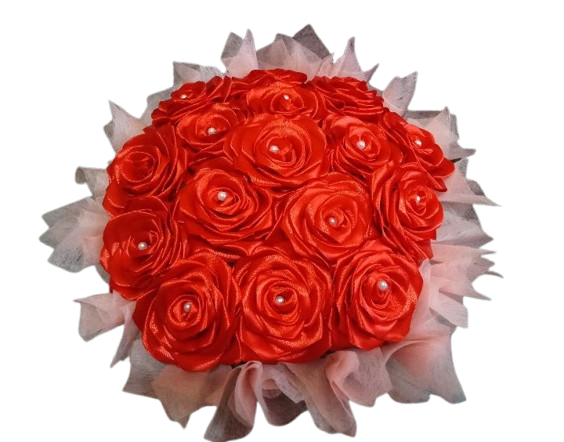
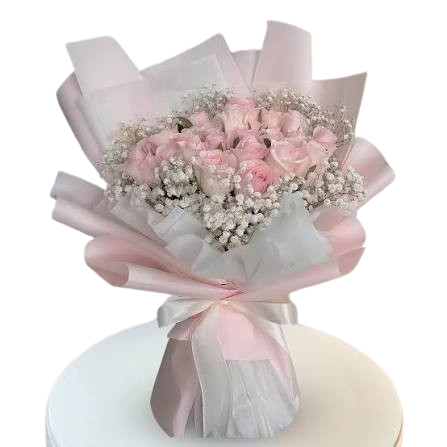
asd

diff --git a/script.js b/script.js
@@ -1,5 +1,6 @@
-const message = `Hi love, whahaha i think ang oa ko neto pero bahala na. First and Foremost, HAPPY 3RD MONTHSARRY. set up lang yung flower if malaman mo talaga na sa'yo, s'yempre papayag ba ako walang plan B inadvance ko na whahahaha i just wanna thankyou for everything love kase super blessed ko simula nung nakilala kita, hindi ko man nagagawa maging sweet pero i'll always trying my best thru Video Call or Call, mahal na mahal kita love. At sure din naman akong gano'n ka rin ramdam ko rin naman. Thankyou sa pag treat sa'kin ng tama, alam kung marami pa tayong pag dadaanan na mga bagay-bagay pero 'wag nating maging option ang pag hihiwalay o pag hahanap nang atensyon sa iba. Palagi lang nating pag-usapan mga problem nating kakaharapin mas mag tatagal tayo if pag uusapan natin lahat ng bagay-bagay, Ang mabibigay ko lang na assurance sa'yo ay yung hindi ako mambabae,mamahalin ka hanggang sa huling hininga ko, ibibigay lahat ng luho mo(dahil alam kung maluho ka), at bubusogin 'yang tummy mo para happy tummy, happy wifey. Love Mahal na Mahal kita, whatever happens i'll still by your side (TAMA BA 'YAN) whahahhahaha Hindi ako mag sasawa na mahalin ka sa araw-araw gwen. Ikaw ang regalo na ayokong mawala, sana gano'n ka rin, Kase pansin ko naiinis kana sa'kin whahhaha like parang Stress na Stress kana as in. Huwag naman, habaan mo pasens'ya mo whahahha + sa nangyari 06|08|26 sorry talaga love pangako hindi na mauulit 'yun. sana 'wag mo'ko iwan sorry if napa ranas ko yung nangyari sa past mo it wouldn't happen again. mahal kita always sana masaya ka sa plan b na 'to hehehe ginamit ko nalang pag ka IT ko sayang kung hindi ko gagamitin para makapag pasikat sa'yo blee. ILOVEYOUUUUUU!`;
-
+const message = 'Happy 20th Birthday Love, Sorry dahil wala ako dyan promise pag graduate natin lagi na tayo mag kasama kada birthday mo. Thankyou love kase lagi mo akong iniintindi at ganon din naman ako sayo. wala na akong h-hilingan pa sa rs natin mag paka buti kalang sa akin sapat na whahahha kems. Enjoy your day Bebi, Padaba taka (HOPE TAMA IYAN whahhahha)';
+// Repeat only for the image-text effect so the portrait is filled before it fades.
+const portraitMessage = (message + ' ').repeat(20);
 const giftContainer = document.getElementById("giftContainer");
 const giftBtn = document.getElementById("giftBtn");
 const bouquet = document.getElementById("bouquet");
@@ -17,89 +18,89 @@ let portraitIndex = 0;
 let letterIndex = 0;
 
 startBtn.onclick = () => {
-  intro.classList.add("hide");
+    intro.classList.add("hide");
 
-  setTimeout(() => {
-    intro.style.display = "none";
+    setTimeout(() => {
+        intro.style.display = "none";
 
-    portraitContainer.style.display = "flex";
+        portraitContainer.style.display = "flex";
 
-    typePortrait();
-  }, 1000);
+        typePortrait();
+    }, 1000);
 };
 
 function typePortrait() {
-  if (portrait.scrollHeight > portrait.clientHeight) {
-    portrait.classList.add("glow");
+    if (portrait.scrollHeight > portrait.clientHeight) {
+        portrait.classList.add("glow");
 
-    setTimeout(() => {
-      portrait.classList.add("zoom");
-    }, 2000);
+        setTimeout(() => {
+            portrait.classList.add("zoom");
+        }, 2000);
 
-    setTimeout(showLetter, 6000);
+        setTimeout(showLetter, 6000);
 
-    return;
-  }
+        return;
+    }
 
-  portrait.textContent += message[portraitIndex];
+    portrait.textContent += portraitMessage[portraitIndex];
 
-  portraitIndex++;
+    portraitIndex++;
 
-  if (portraitIndex >= message.length) {
-    portraitIndex = 0;
-  }
+    if (portraitIndex >= portraitMessage.length) {
+        portraitIndex = 0;
+    }
 
-  setTimeout(typePortrait, 1);
+    setTimeout(typePortrait, 1);
 }
 
 function showLetter() {
-  portraitContainer.style.display = "none";
+    portraitContainer.style.display = "none";
 
-  letterContainer.style.display = "block";
+    letterContainer.style.display = "block";
 
-  typeLetter();
+    typeLetter();
 }
 
 function typeLetter() {
-  if (letterIndex >= message.length) {
-    giftContainer.style.display = "block";
+    if (letterIndex >= message.length) {
+        giftContainer.style.display = "block";
 
-    return;
-  }
+        return;
+    }
 
-  letter.textContent += message[letterIndex];
+    letter.textContent += message[letterIndex];
 
-  letterIndex++;
+    letterIndex++;
 
-  setTimeout(typeLetter, 25);
+    setTimeout(typeLetter, 25);
 }
 
 giftBtn.onclick = () => {
-  giftBtn.style.display = "none";
+    giftBtn.style.display = "none";
 
-  bouquet.style.display = "block";
+    bouquet.style.display = "block";
 
-  setTimeout(() => {
-    bouquet.classList.add("show");
-  }, 10);
+    setTimeout(() => {
+        bouquet.classList.add("show");
+    }, 10);
 };
 
 const petals = document.getElementById("petals");
 
 for (let i = 0; i < 25; i++) {
-  const petal = document.createElement("div");
+    const petal = document.createElement("div");
 
-  petal.className = "petal";
+    petal.className = "petal";
 
-  petal.innerHTML = "🌸";
+    petal.innerHTML = "🌸";
 
-  petal.style.left = Math.random() * 100 + "vw";
+    petal.style.left = Math.random() * 100 + "vw";
 
-  petal.style.animationDuration = 6 + Math.random() * 6 + "s";
+    petal.style.animationDuration = 6 + Math.random() * 6 + "s";
 
-  petal.style.animationDelay = Math.random() * 5 + "s";
+    petal.style.animationDelay = Math.random() * 5 + "s";
 
-  petal.style.fontSize = 16 + Math.random() * 20 + "px";
+    petal.style.fontSize = 16 + Math.random() * 20 + "px";
 
-  petals.appendChild(petal);
+    petals.appendChild(petal);
 }

diff --git a/index.html b/index.html
@@ -1,60 +1,46 @@
 <!doctype html>
 <html lang="en">
-  <head>
+
+<head>
     <meta charset="UTF-8" />
     <meta name="viewport" content="width=device-width, initial-scale=1.0" />
     <title>FROM: YOUR SECRET ADMIRER</title>
     <link rel="stylesheet" href="style.css" />
-  </head>
-  <body>
+</head>
 
-<div id="intro">
-    <h1>❤ Happy 3rd Monthsary ❤</h1>
-    <h3>For My Love, Gwen</h3>
+<body>
 
-    <button id="startBtn">
-        Click to Open ❤
+    <div id="intro">
+        <h1>❤ Happy Birthday My Love ❤</h1>
+        <h3>For My Love, Gwen.</h3>
+
+        <button id="startBtn">
+        Click It ❤
     </button>
-</div>
-
-<div id="portraitContainer">
-
-    <p id="portrait"></p>
-
-</div>
-
-<div id="letterContainer">
-
-    <h2>To My Love ❤</h2>
-
-    <p id="letter"></p>
-
-</div>
-
-<div id="giftContainer">
-
-    <button id="giftBtn">
-        🌸 Open My Flower 🌸
-    </button>
-
-    <div id="bouquet">
-
-        <img src="flower.png" alt="flower">
-
-        <h2>Happy 3rd Monthsary ❤</h2>
-
-        <p>
-            This flower may someday wilt,<br>
-            but my love for you never will.
-        </p>
-
-        <h3>I Love You, Gwen ❤</h3>
-
     </div>
 
-</div>
+    <div id="portraitContainer">
+        <div id="portrait"></div>
+    </div>
 
-<script src="script.js"></script>
-<div id="petals"></div>
+    <div id="letterContainer">
+        <h2>To My Love ❤</h2>
+
+        <p id="letter"></p>
+        <div id="giftContainer">
+            <button id="giftBtn" type="button">Open your flowers</button>
+            <div id="bouquet" aria-live="polite">
+                <div aria-hidden="true">💐</div>
+                <h2>Happy birthday, Love!</h2>
+                <p>I hope your day is as beautiful as your smile.</p>
+            </div>
+        </div>
+    </div>
+
+    <div id="petals"></div>
+
+    <script src="script.js"></script>
+
 </body>
+
 </html>

diff --git a/style.css b/style.css
@@ -13,6 +13,7 @@ body {
   font-family: Arial, Helvetica, sans-serif;
   overflow-x: hidden;
   overflow-y: auto;
+  min-height: 100vh;
 }
 
 
@@ -132,16 +133,12 @@ body {
 
 #letterContainer {
   display: none;
-
-  width: min(90%, 850px);
-
-  margin: 50px auto 100px auto;
-
+  min-height: 100vh;
+  width: min(92%, 900px);
+  margin: 0 auto;
   color: white;
-
   animation: fadeIn 1s ease;
-
-  padding: 0 10px;
+  padding: clamp(48px, 10vh, 100px) 10px 80px;
 }
 
 #letterContainer h2 {
@@ -158,13 +155,11 @@ body {
 
 #letter {
   font-size: clamp(16px, 2.5vw, 20px);
-
   line-height: 1.8;
-
   white-space: pre-wrap;
-
   overflow-wrap: break-word;
   word-wrap: break-word;
+  text-align: justify;
 }
 
 
@@ -274,9 +269,8 @@ body {
 
   color: white;
 
-  margin-top: 40px;
-
-  padding: 0 20px;
+  margin: 40px auto 0;
+  padding: 0;
 
   animation: fadeIn 1s ease;
 }
@@ -318,8 +312,6 @@ body {
 
   margin-top: 40px;
 
-  padding: 0 20px;
-
   font-size: clamp(50px, 12vw, 80px);
 
   text-align: center;
@@ -339,6 +331,10 @@ body {
   opacity: 1;
 
   transform: scale(1);
+}
+
+#bouquet > div {
+  line-height: 1;
 }
 
 #bouquet h2 {
